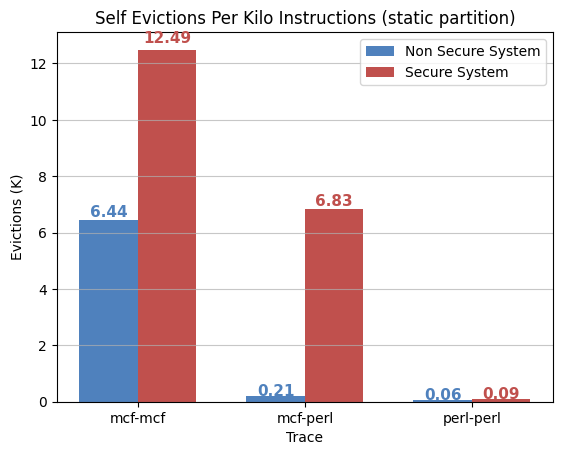
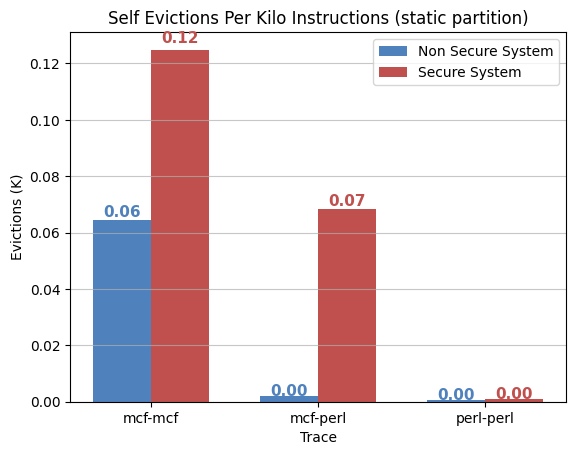
eviction calculation update

diff --git a/PA2/Workspace/graph_gen.py b/PA2/Workspace/graph_gen.py
@@ -72,7 +72,10 @@ def extract_data(mode: str, trace: str):
             obj["mpki_core" + selected_core] = mpki
     obj["mpki_avg"] = (obj["mpki_core0"] + obj["mpki_core1"]) / 2
     obj["ipc_total"] = obj["ipc_core0"] + obj["ipc_core1"]
-    obj["eviction_total"] = (obj["eviction_core0"] + obj["eviction_core1"]) / 1000
+    total_instructions = 50000000 * 2
+    obj["eviction_total"] = (
+        (obj["eviction_core0"] + obj["eviction_core1"]) / total_instructions * 1000
+    )  # 1K/50M*2
     return obj
 
 
